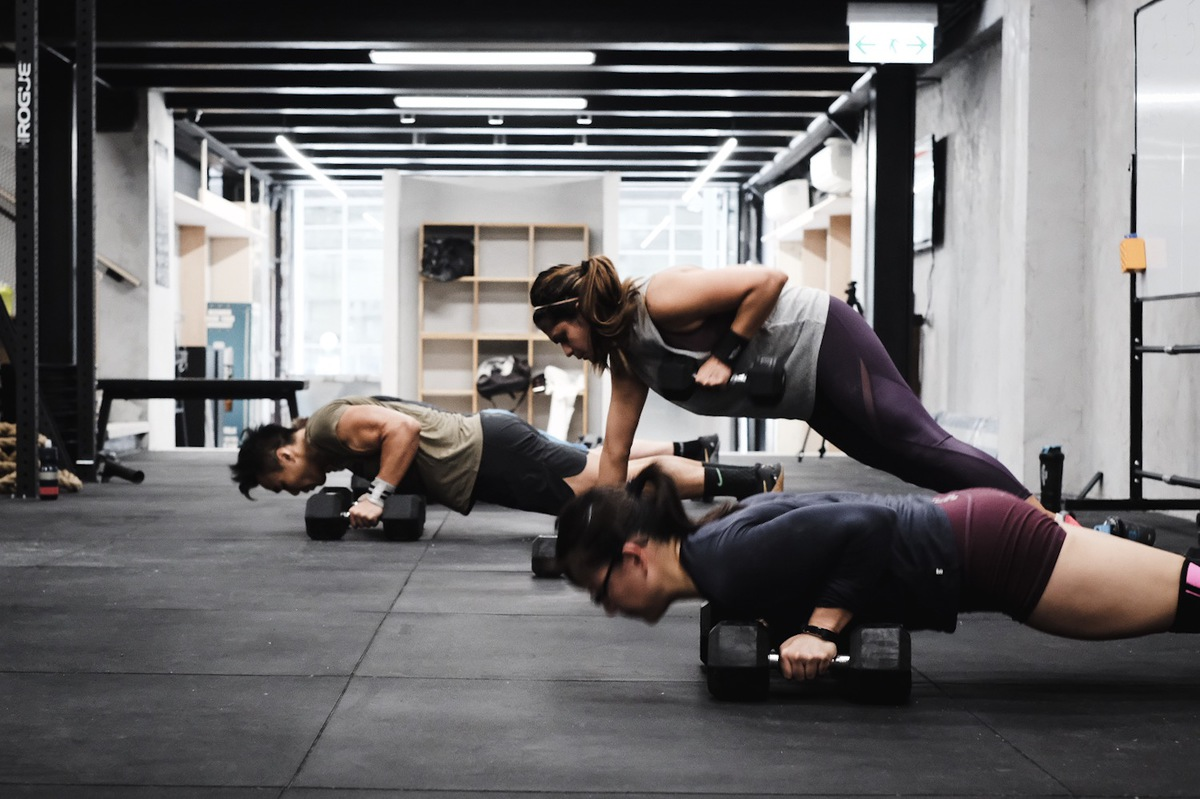
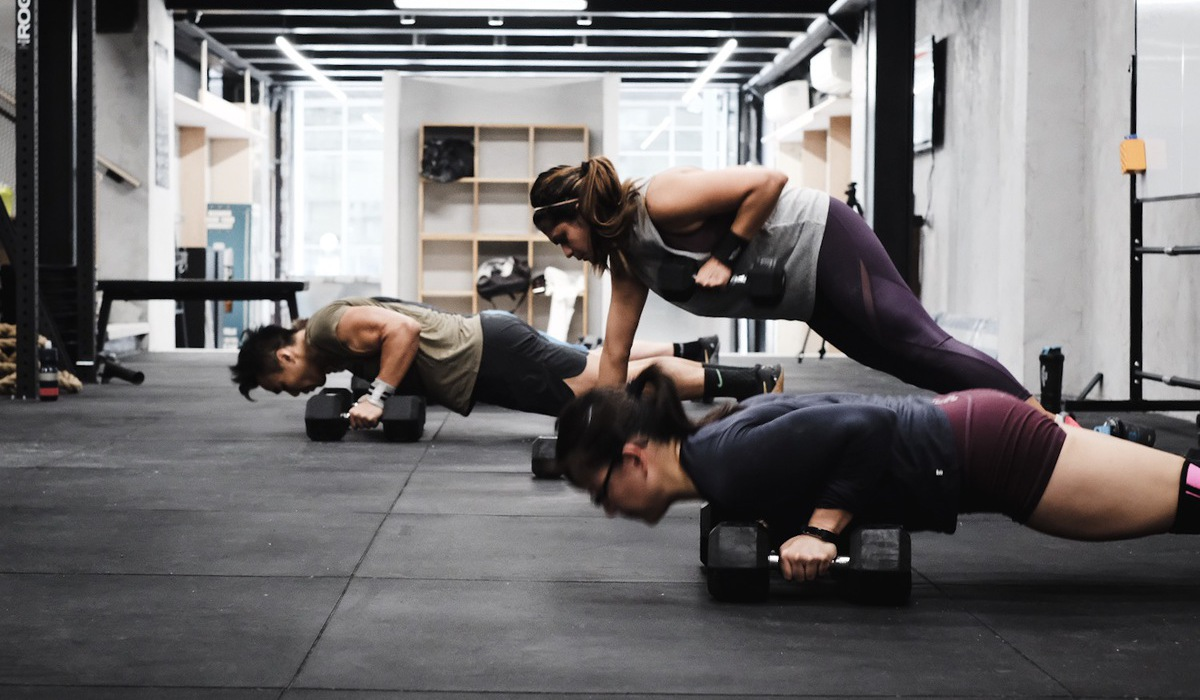
trying backstretch for background image; also updated header image for getting started page

diff --git a/_includes/_head.html b/_includes/_head.html
@@ -118,7 +118,7 @@
 		}
 	</style>
 	-->
-
+	{% comment %}
 	<style>
 		body {
 		    background-image: url({{site.bgimg}});
@@ -132,6 +132,7 @@
 		    z-index: 0;
 		}
 	</style>
+	{% endcomment %}
 	{% endunless %}
 
 	{% comment %}

diff --git a/_includes/_footer_scripts.html b/_includes/_footer_scripts.html
@@ -15,6 +15,9 @@ $('audio,video').mediaelementplayer();
 </script>
 {% endif %}
 
+<script>
+  $.backstretch("{{site.bgimg}}");
+</script>
 
 
 {% if site.google_analytics_tracking_id  and jekyll.environment == 'production' %}
